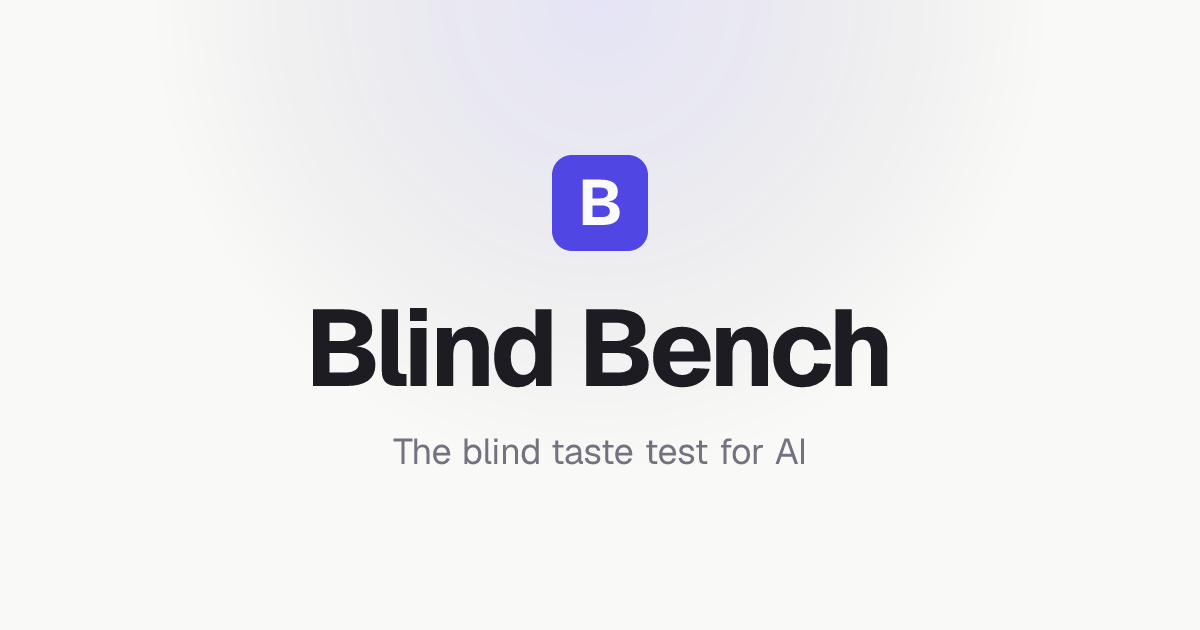
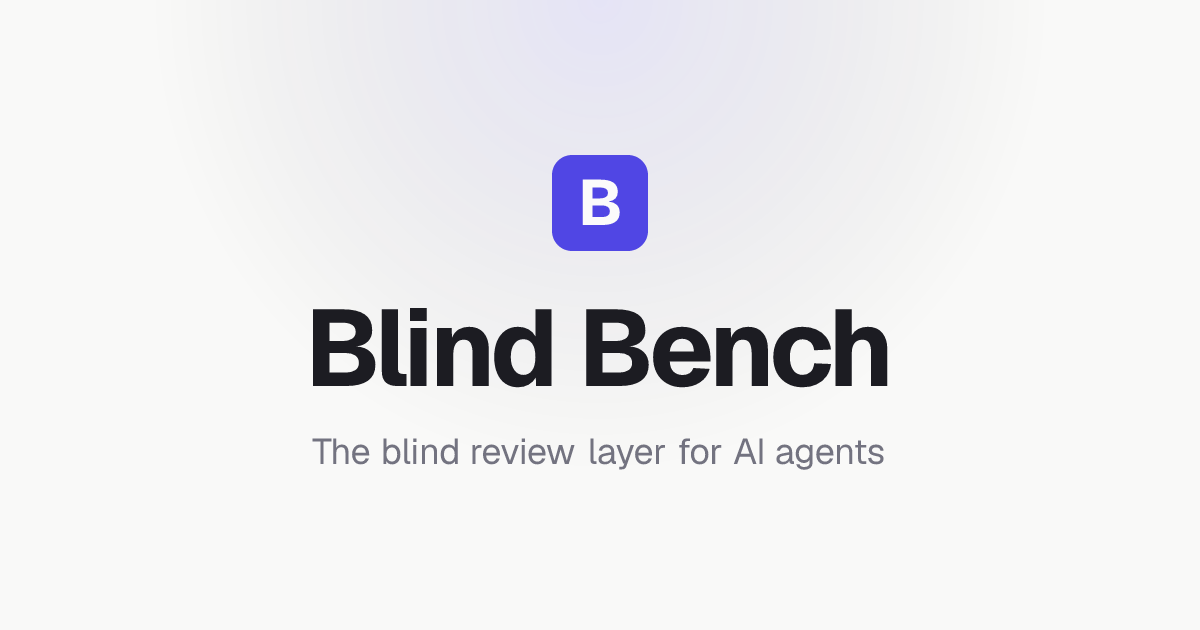
feat(landing): product glimpse in hero, demo deep-link CTA, verdict artifact, refreshed OG image
- Hero gains a decorative blind-review comparison card (redacted
  Version/Model chips, skeleton outputs, Preferred pill) on xl+ screens;
  xl-gated after review showed the lg text column couldn't hold the H1's
  first line without re-wrapping.
- Secondary CTA now deep-links the live demo: "Try a blind review" ->
  #demo-section (scroll-mt added so the sticky nav/progress pill don't
  cover the target); analytics ctaLabel union see_how -> try_demo.
- ForTheEngineer gets a structured-verdict artifact card (generic
  placeholder provenance only).
- Problem drops its top border to kill the doubled seam under SocialProof.
- og-image regenerated: "The blind review layer for AI agents".

Changed region(s): [[0.2467, 0.6937, 0.74, 0.754]]

diff --git a/landing/src/lib/analytics.ts b/landing/src/lib/analytics.ts
@@ -13,7 +13,7 @@ import * as Sentry from '@sentry/browser';
 /** Closed schema: event name → its allowed props. */
 export interface LandingEventProps {
   hero_cta_click: {
-    ctaLabel: 'get_started' | 'see_how';
+    ctaLabel: 'get_started' | 'try_demo';
     rotatorPersona: 'engineers' | 'legal' | 'support' | 'PMs' | 'experts' | 'unknown';
   };
 }